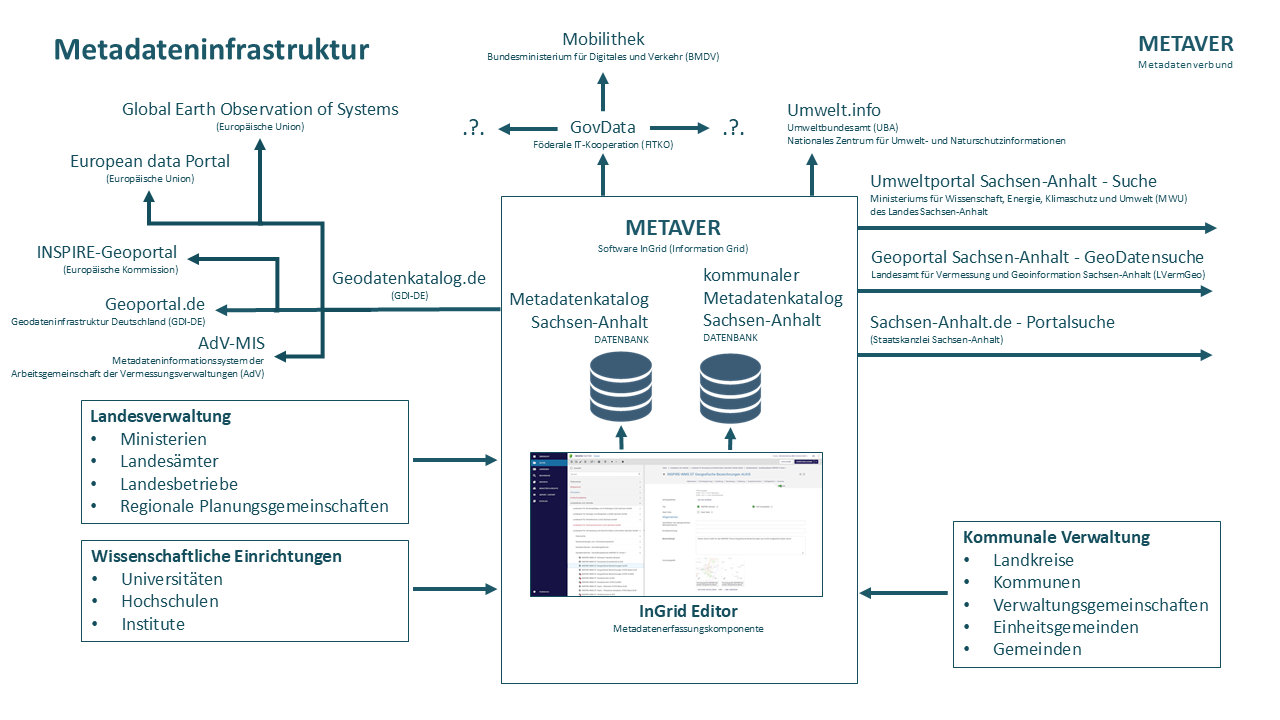
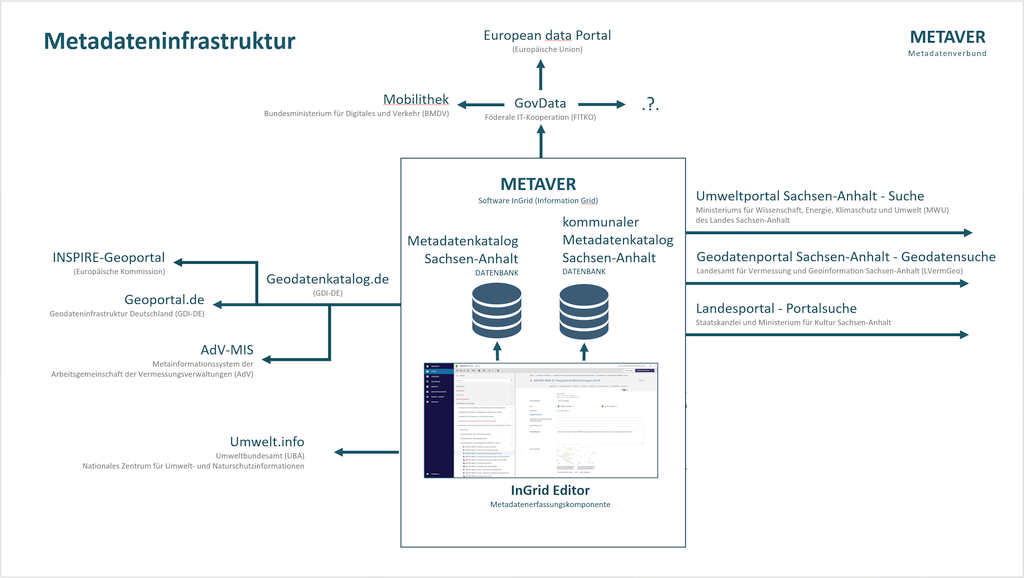
Aktualisierung

diff --git a/docs/kataloge/metadatenkatalog_sachsen-anhalt.rst b/docs/kataloge/metadatenkatalog_sachsen-anhalt.rst
@@ -4,6 +4,6 @@ Metadatenkatalog Sachsen-Anhalt
 
 Der Metadatenkatalog Sachsen-Anhalt ist eine zentrale Datenbank zur Erfassung und Bereitstellung von Metadaten verschiedener Datentypen wie Anwendungen, Datenbanken, Geodatensätze, Geodatendienste, Dokumente, Organisationseinheiten und Projekte. Die Metadaten werden dezentral über eine webbasierte Komponente zur Metadatenerfassung der Software InGrid erfasst und können online aktualisiert werden. Das Ziel besteht darin, die Daten der Behörden in Sachsen-Anhalt zentral zugänglich und durchsuchbar zu machen. Dadurch soll mehr Transparenz geschaffen und die Nutzung der Daten erleichtert werden.
 
-Der Katalog ist Teil einer Länderkooperation und wird über das Portal MetaVer.de bereitgestellt. Über dieses Portal werden Metadaten für die Landesverwaltung, Kommunen sowie für Umwelt- und Geoinformationsnetze bereitgestellt. Die erfassten Metadaten können über verschiedene Geoportale recherchiert werden, beispielsweise über das Geoportal Sachsen-Anhalt, Geoportal.de, das INSPIRE-Geoportal oder GovData.de. Dabei folgt der Metadatenkatalog dem Prinzip der zentralen Pflege der Metadaten, die dann mehrfach verwendet und gefunden werden können.
+Der Katalog ist Teil einer Länderkooperation und wird über das Portal MetaVer.de bereitgestellt. Über dieses Portal werden Metadaten für die Landesverwaltung, Kommunen sowie für Umwelt- und Geoinformationsnetze bereitgestellt. Die erfassten Metadaten können über verschiedene Geodatenportale recherchiert werden, beispielsweise über das Geodatenportal Sachsen-Anhalt, Geoportal.de, das INSPIRE-Geoportal oder GovData.de. Dabei folgt der Metadatenkatalog dem Prinzip der zentralen Pflege der Metadaten, die dann mehrfach verwendet und gefunden werden können.
 
 Der Katalog enthält außerdem Adressdaten von Einrichtungen, die Auskunft über die erfassten Informationen geben können. Diese sind nach Organisationen und Personen strukturiert. Das Portal ist öffentlich zugänglich, für die Datenverwaltung gelten jedoch Nutzerberechtigungen. Der Betrieb der Metadateninfrastruktur wird gemeinsam mit anderen Bundesländern organisiert und vom Ministerium für Wissenschaft, Energie, Klimaschutz und Umwelt des Landes Sachsen-Anhalt koordiniert.

diff --git a/docs/kataloge/kommunaler-metadatenkatalog_sachsen-anhalt.rst b/docs/kataloge/kommunaler-metadatenkatalog_sachsen-anhalt.rst
@@ -2,7 +2,7 @@
 kommunaler Metadatenkatalog Sachsen-Anhalt
 ===========================================
 
-Der kommunale Metadatenkatalog Sachsen-Anhalt (kMDK) ist eine Datenbank für Kommunen in Sachsen-Anhalt. Er enthält Metainformationen (Beschreibungen) zu verschiedenen Datenobjekten und ähnelt damit dem allgemeinen Metadatenkatalog des Landes. Um den kommunalen Anforderungen gerecht zu werden, sind im kMDK jedoch weniger Pflichtfelder bei der Erfassung vorgesehen. Der Katalog umfasst Metadaten zu Geodatensätzen, Geodatendiensten, Anwendungen, Datenbanken, Dokumenten, Projekten und Organisationseinheiten.
+Der kommunale Metadatenkatalog Sachsen-Anhalt (kMDK) ist eine Datenbank für Kommunen in Sachsen-Anhalt. Er enthält Metainformationen (Beschreibungen) zu verschiedenen Datenobjekten und ähnelt damit dem allgemeinen Metadatenkatalog des Landes. Um den kommunalen Anforderungen gerecht zu werden, verfügt der kMDK jedoch über weniger Pflichtfelder für die Erfassung von Geodaten. Der Katalog umfasst Metadaten zu Geodatensätzen, Geodatendiensten, Anwendungen, Datenbanken, Dokumenten, Projekten und Organisationseinheiten.
 
 Er dient der strukturierten und zentralen Erfassung und Bereitstellung kommunaler Daten. Dabei können die Metadaten als offene Verwaltungsdaten (Open Data), als hochwertige Datensätze (HVD) sowie als INSPIRE-konforme Geodaten gemäß dem Metadatenprofil der Arbeitsgemeinschaft der Vermessungsverwaltungen (AdV) veröffentlicht werden. Die dezentrale Datenerfassung erfolgt über eine webbasierte Erfassungskomponente, sodass die Kommunen ihre Daten eigenständig pflegen können. Damit unterstützt der kMDK die Verwaltung, Nutzung und Auffindbarkeit von kommunalen Geodaten und anderen Datenressourcen in Sachsen-Anhalt auf standardisierte und kostenfreie Weise.
 
